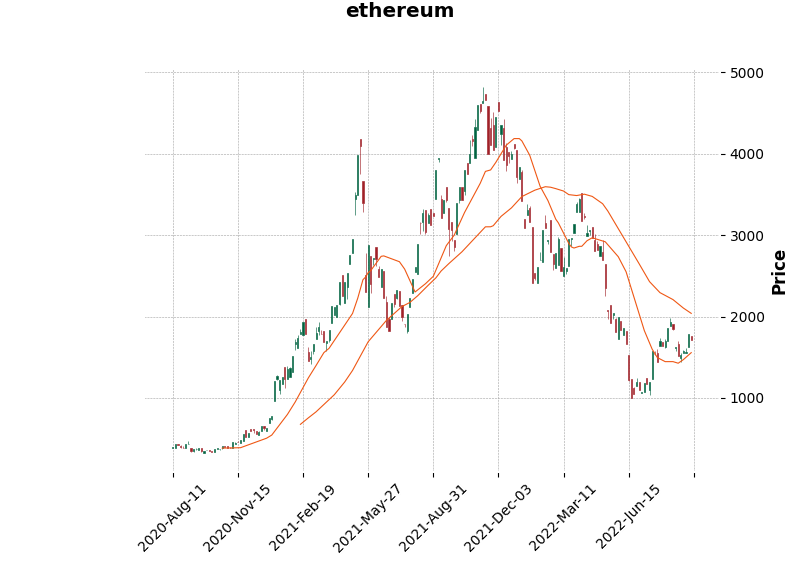
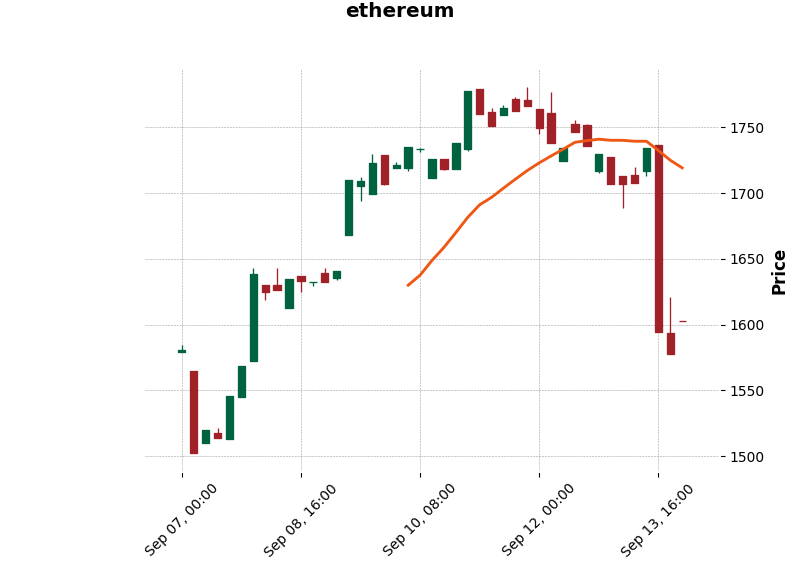
updates

diff --git a/app.py b/app.py
@@ -53,13 +53,16 @@ def markets():
 
 @app.route('/search', methods=["GET", "POST"])
 def search():
-       
-    historical = cg.get_coin_ohlc_by_id(id="ethereum", vs_currency="usd", days="max")
+
+    duration = "2"
+    coin = "ethereum"
+
+    historical = cg.get_coin_ohlc_by_id(id="ethereum", vs_currency="usd", days=7)
     hist_df = pd.DataFrame(historical)
     hist_df.columns = ["Time", "Open", "High", "Low", "Close"]
     hist_df["Time"] = pd.to_datetime(hist_df["Time"]/1000, unit="s")
     hist_df.set_index("Time", inplace=True)
-    mpf.plot(hist_df.tail(200), type="candle", style="charles", title="ethereum", mav=(20,50), savefig="templates/chart.png")
+    mpf.plot(hist_df.tail(200), type="candle", style="charles", title="ethereum", mav=(20,50), savefig="static/chart.png")
     
     return render_template("search.html")
 
